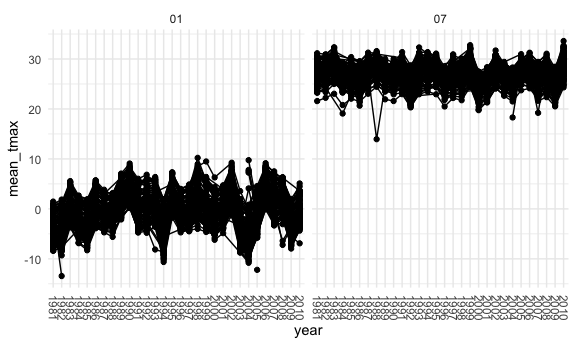
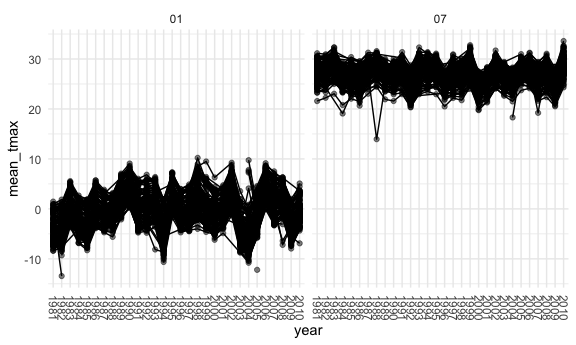
some modifications of the short descriptions

diff --git a/p8105_hw3_jz3336.md b/p8105_hw3_jz3336.md
@@ -191,13 +191,14 @@ accelerometer_df %>%
 
 There is no prominent increasing or decreasing trend in total activity
 count through out each week and across the 5 weeks. However, the
-variation of the total activity over the day is much smaller on
-Thursdays, Tuesdays, Wednesdays.if compare the total activity count
-across the 5 Fridays, Mondays, Saturdays, and Sundays, the variation is
-vary large. Furthermore, during the week 4 adn week 5 on Saturday,only
-the baseline activity counts 1440 have been shown. This imply that the
-either the patient forget to wear the device for the day or there have
-been malfunction.
+variation of the total activity is much smaller on if compare the five
+Thursdays, Tuesdays, Wednesdays horizontally. On the other hand, if
+compare the total activity count across the 5 Fridays, Mondays,
+Saturdays, and Sundays, the variation is vary large. Furthermore, on the
+week 4 Saturday and week 5 Saturday,only the baseline activity counts，
+1440， have been shown. This imply that either the patient forget to wear
+the device for the day or there have been some malfunction with the
+device.
 
 **3. Accelerometer data allows the inspection activity over the course
 of the day. Make a single-panel plot that shows the 24-hour activity
@@ -209,14 +210,46 @@ graph.**
 accelerometer_df %>% 
   group_by(week, day) %>% 
   ggplot(aes(x = minute_of_the_day, y = activity_count, color = day)) +
-  geom_line() +
-  scale_x_discrete(
-    breaks = c(180,360,540,720,900,1080,1260,1440),
-    labels = c("3h","6h", "9h", "12h", "15h", "18h", "21h", "24h")
-  )
+  geom_line(alpha = .5) +
+  geom_smooth()
 ```
 
+    ## `geom_smooth()` using method = 'gam' and formula 'y ~ s(x, bs = "cs")'
+
 <img src="p8105_hw3_jz3336_files/figure-gfm/unnamed-chunk-8-1.png" width="90%" />
+
+``` r
+##  scale_x_discrete(
+##    breaks = c(180,360,540,720,900,1080,1260,1440),
+##   labels = c("3h","6h", "9h", "12h", "15h", "18h", "21h", "24h")
+##  ) +
+  theme(axis.text.x = element_text(angle = 270,  vjust = 0.5,  hjust = 1))
+```
+
+    ## List of 1
+    ##  $ axis.text.x:List of 11
+    ##   ..$ family       : NULL
+    ##   ..$ face         : NULL
+    ##   ..$ colour       : NULL
+    ##   ..$ size         : NULL
+    ##   ..$ hjust        : num 1
+    ##   ..$ vjust        : num 0.5
+    ##   ..$ angle        : num 270
+    ##   ..$ lineheight   : NULL
+    ##   ..$ margin       : NULL
+    ##   ..$ debug        : NULL
+    ##   ..$ inherit.blank: logi FALSE
+    ##   ..- attr(*, "class")= chr [1:2] "element_text" "element"
+    ##  - attr(*, "class")= chr [1:2] "theme" "gg"
+    ##  - attr(*, "complete")= logi FALSE
+    ##  - attr(*, "validate")= logi TRUE
+
+According to the plot, the patient usually woke up before 7am (420min)
+each day, and go to bed at around 9pm (1300min). He was the most active
+during the morning before noon (750min) and around 7pm to 8pm (1250min)
+before night time. Furthermore, since most of the strikingly high
+activity counts showed in the plot were occurred on Friday and Saturday
+and Sunday, the patient may be the most active during weekends.
 
 ## Problem 3
 
@@ -229,7 +262,8 @@ defined by 7 variables: id is the weather station ID. date is the date
 of observation. prcp is precipitation with unit tenth of mm. snow is the
 snowfall in mm. snwd is the snow depth in mm. tmax is maximum
 temperature in tenth of degree C, and tmin is the minimum temperature in
-tenth of degree C.
+tenth of degree C. The missing values in tmax, tmin, and snow may be an
+issue since they occuured too frequently.
 
 **1. Do some data cleaning. Create separate variables for year, month,
 and day. Ensure observations for temperature, precipitation, and
@@ -272,10 +306,8 @@ To tidy up the dataset, I first separated the date to year, month and
 day. Then, changing the tmax and tmin to numeric variables was
 performed. Furthermore, by dividing 10, the units for tmax, tmin and
 prcp will be converted from tenth to the mm and tenth to the degree C to
-mm and degree C.
-
-For snowfall, the most commonly observed values was 0 since we counted
-the most observations from it.
+mm and degree C. For snowfall, the most commonly observed values was 0
+since we counted the most observations from it.
 
 **2. Make a two-panel plot showing the average max temperature in
 January and in July in each station across years. Is there any
@@ -289,7 +321,7 @@ ny_noaa_df %>%
     mean_tmax = mean(tmax, na.rm = TRUE)
   ) %>% 
   ggplot(aes(x = year, y = mean_tmax,group = id))+
-  geom_point() +
+  geom_point(alpha = .5) +
   geom_path() +
   facet_grid(.~month) +
   theme(axis.text.x = element_text(angle = 270,  vjust = 0.5,  hjust = 1))
@@ -303,10 +335,18 @@ ny_noaa_df %>%
 
 <img src="p8105_hw3_jz3336_files/figure-gfm/unnamed-chunk-11-1.png" width="90%" />
 
+From the plot, there is a increasing trend in the average maximum
+temperature in January across the years. This increase may be an
+indicator of global warming. Furthermore, there are several outliers in
+the January plot in 1982,2004 that show much lower average maximum
+temperature compare to the other years. For July, in year 1988 there is
+a outlier showing an average maximum temperature that is lower than any
+other years.
+
 **Make a two-panel plot showing (i) tmax vs tmin for the full dataset
 (note that a scatterplot may not be the best option); and (ii) make a
 plot showing the distribution of snowfall values greater than 0 and less
-than 100 separately by year.** 1.
+than 100 separately by year.**
 
 ``` r
 library(patchwork)
